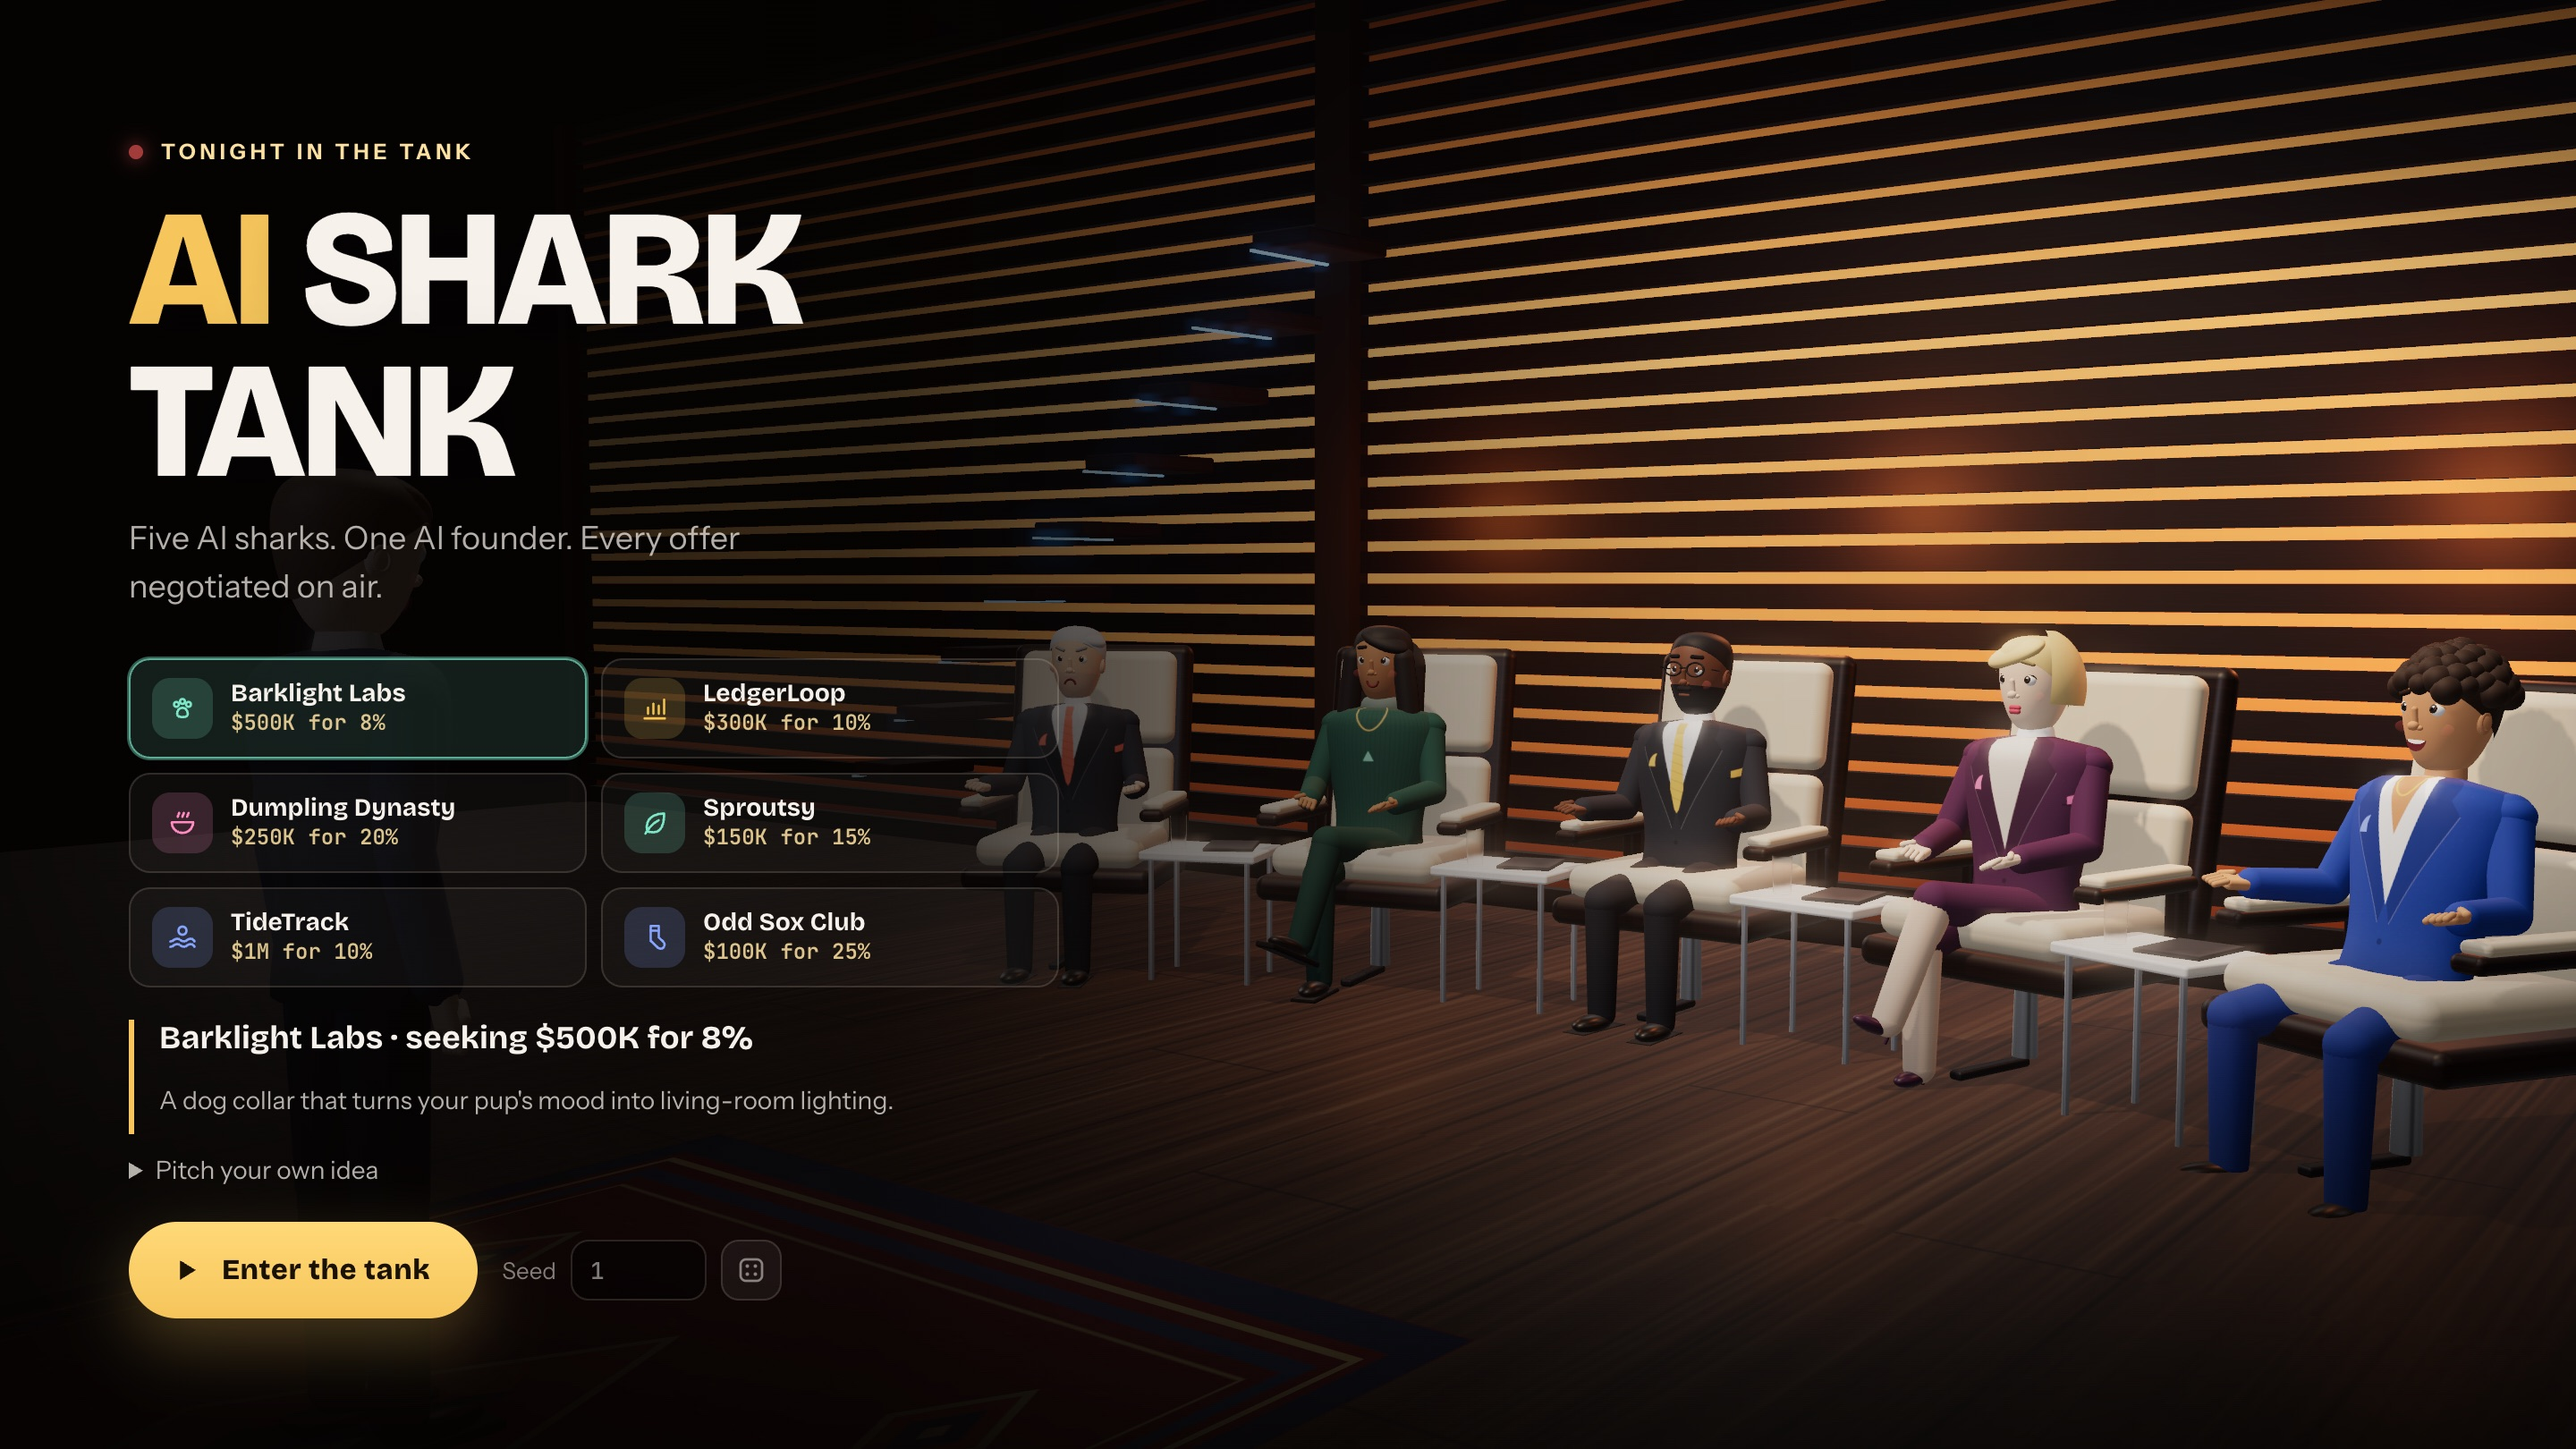
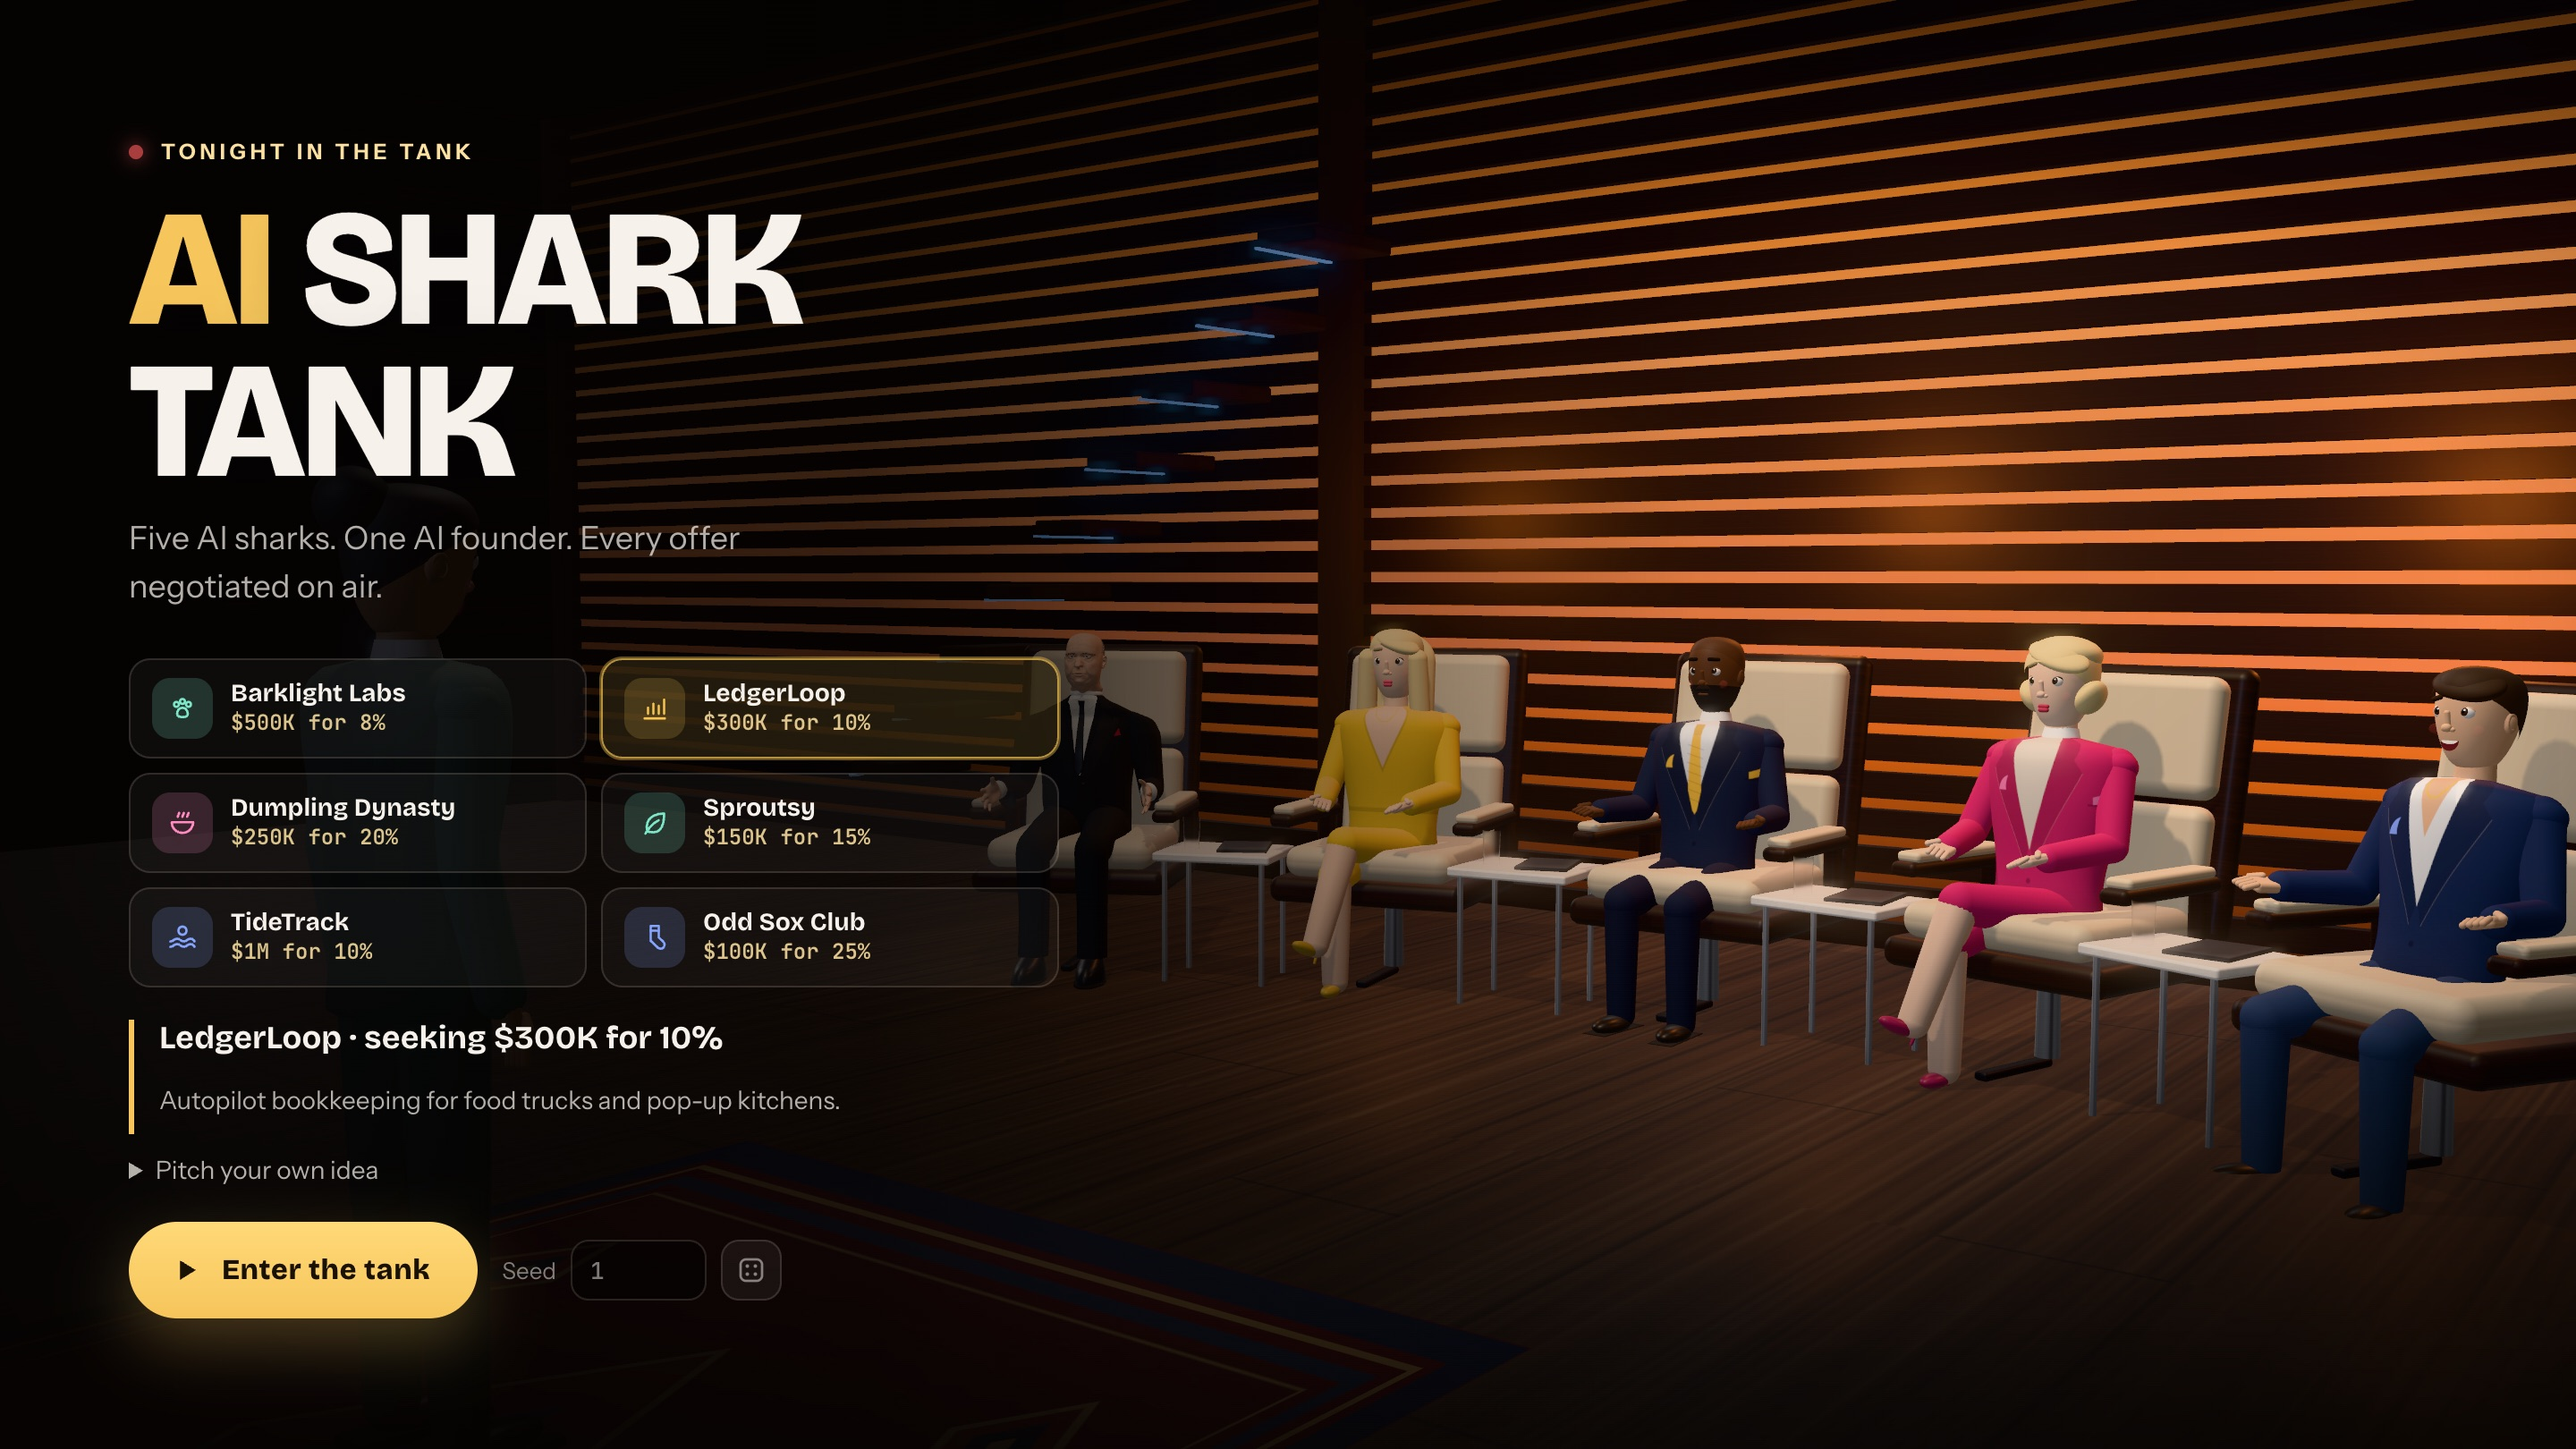
Seat Bernard's rigged Kevin in the Skeptic's chair
Rex now uses public/models/kevin/kevin-rigged.glb. skin.js drives its 18
bones from the same procedural joint rig as the rest of the cast, with a
rest-pose correction per limb, so Kevin sits, gestures, crosses his arms
when he's out, follows whoever is talking, and stands for the handshake.
His mouthOpen/blink/smile/frown morphs handle talking, blinking, and
expressions tied to his deal status. Skin is matched to the studio tone.

Light mode (software WebGL) keeps the procedural stand-in, since the
model is ~400k triangles. A dedicated e2e test forces full quality and
checks the model loads; the e2e per-test timeout is raised for slow
software rendering. README documents the cast mapping.

diff --git a/public/js/studio/skin.js b/public/js/studio/skin.js
@@ -63,7 +63,40 @@ export function hasRig(model) {
   return Boolean(findBone(model, "pelvis") && findBone(model, "head") && findBone(model, "upperarm.L"));
 }
 
-export function createRetarget(model, { root, joints }) {
+// Scale skin to the studio's tone, keeping the model's painted variation.
+function matchSkinTone(model, tone) {
+  const target = new THREE.Color(tone);
+
+  model.traverse((node) => {
+    // Skin meshes are named "...Skin_|_<tone>" (hands) or "..._anatomical_head" (face);
+    // every skinned part is prefixed "Kevin_skin_", so match case-sensitively.
+    if (!node.isMesh || !/Skin_\|_|anatomical_head/.test(node.name)) {
+      return;
+    }
+
+    const colors = node.geometry.attributes.color;
+
+    if (colors && node.material.vertexColors) {
+      const average = new THREE.Color(0, 0, 0);
+
+      for (let index = 0; index < colors.count; index += 1) {
+        average.r += colors.getX(index) / colors.count;
+        average.g += colors.getY(index) / colors.count;
+        average.b += colors.getZ(index) / colors.count;
+      }
+
+      node.material.color.setRGB(target.r / average.r, target.g / average.g, target.b / average.b);
+    } else {
+      node.material.color.copy(target);
+    }
+  });
+}
+
+export function createRetarget(model, { root, joints, skinTone = null }) {
+  if (skinTone) {
+    matchSkinTone(model, skinTone);
+  }
+
   const rootInverse = new THREE.Quaternion();
   const scratch = new THREE.Quaternion();
   const bones = [];
@@ -159,7 +192,7 @@ export function createRetarget(model, { root, joints }) {
         desired.set(entry.bone, world);
         const parent = entry.bone.parent;
         const parentWorld = desired.get(parent) || rootInverse.clone().multiply(parent.getWorldQuaternion(new THREE.Quaternion()));
-        entry.bone.quaternion.copy(parentWorld.invert().multiply(world));
+        entry.bone.quaternion.copy(parentWorld.clone().invert().multiply(world));
       }
 
       if (pelvis) {

diff --git a/public/js/studio/character.js b/public/js/studio/character.js
@@ -794,7 +794,7 @@ export function createCharacter({ look: rawLook, color = "#39e0c8", seed = 1, po
       const saved = Object.entries({ pelvis, head, ...joints }).map(([name, node]) => [node, node.rotation.clone()]);
       saved.forEach(([node]) => node.rotation.set(0, 0, 0));
       root.add(model);
-      skin = createRetarget(model, { root, joints: { pelvis, head, ...joints } });
+      skin = createRetarget(model, { root, joints: { pelvis, head, ...joints }, skinTone: look.skin });
       saved.forEach(([node, rotation]) => node.rotation.copy(rotation));
       procedural.forEach((mesh) => {
         mesh.visible = false;

diff --git a/public/js/studio/studio.js b/public/js/studio/studio.js
@@ -434,7 +434,8 @@ export function createStudio({ mount }) {
         scene.add(character.root);
         sharks.set(shark.id, character);
 
-        if (shark.look?.model) {
+        // Rigged models are heavy (hundreds of thousands of triangles); light mode keeps the procedural look.
+        if (shark.look?.model && quality === "high") {
           void loadRiggedModel(shark.look.model).then((model) => {
             if (model && sharks.get(shark.id) === character) {
               character.attachSkin(cloneSkinned(model));

diff --git a/playwright.config.js b/playwright.config.js
@@ -9,7 +9,8 @@ const baseURL = `http://127.0.0.1:${PORT}`;
 
 export default defineConfig({
   testDir: "./tests/e2e",
-  timeout: 60_000,
+  // Software WebGL is slow; full episodes plus the rigged-model test need headroom.
+  timeout: 120_000,
   expect: {
     timeout: 15_000,
   },

diff --git a/README.md b/README.md
@@ -1,7 +1,7 @@
 # AI Shark Tank
 
 <p align="center">
-  <img src="static/image.jpg" alt="AI Shark Tank: Wild Wes stands up to shake on a deal with the founder of Barklight Labs" width="900" />
+  <img src="static/image.jpg" alt="AI Shark Tank: Rex, the Skeptic, played by the rigged Kevin model, grills the founder from his lounge chair" width="900" />
 </p>
 
 `AI Shark Tank` is a Shark Tank episode you watch in the browser, filmed like the TV show: a 3D studio with the five AI sharks in their lounge chairs, an AI founder who walks in down the hallway, and every question, offer, counter, and handshake cut together from show-style camera angles. There's no dashboard. It plays full screen with TV graphics, made for screenshots, short videos, and social-ready demos.
@@ -21,24 +21,27 @@ npm start
 
 Open [http://127.0.0.1:5050](http://127.0.0.1:5050). No `.env` is needed.
 
-### Kevin character study
+### The cast
 
-Open [http://127.0.0.1:5050/kevin.html](http://127.0.0.1:5050/kevin.html)
-to review the Blender-authored Kevin O’Leary asset. The viewer includes portrait
-and full-figure framing, front/three-quarter/profile angles, orbit, zoom, and
-optional automatic rotation. It is an isolated asset study: **the five fictional
-episode characters, their animation system, and episode logic are unchanged.**
+The sharks' looks nod to the real panel, but their on-air names stay fictional because every line they say is generated:
 
-The runtime asset lives at `public/models/kevin/kevin.glb`; the editable Blender
-source lives at `assets/kevin/kevin.blend`. This is a likeness-development pass,
-not a claim of a scan-quality digital double or an animation-ready replacement
-for the studio character rig.
+| Seat | Persona | Look |
+| --- | --- | --- |
+| Rex | The Skeptic | The rigged Blender model of Kevin O'Leary: bald, gray temples, black suit, crimson pocket square |
+| Luna | The Visionary | Long straight blonde hair, yellow dress |
+| Max | The Numbers Shark | Shaved head, trimmed beard, navy suit, gold tie |
+| Vera | The Brand Guru | Short full blonde hair, hot-pink blazer, pearls |
+| Wild Wes | The Wildcard | Short dark hair, navy blazer, open collar, jeans |
+
+Rex uses `public/models/kevin/kevin-rigged.glb` (18 bones plus `mouthOpen`, `blink`, `smile`, and `frown` morphs; see `assets/kevin/RIGGING.md`). `public/js/studio/skin.js` drives it from the same procedural joint rig as the rest of the cast, so he sits, gestures, crosses his arms when he's out, turns to whoever is talking, talks, blinks, and stands for the handshake. In light mode (software WebGL), Rex uses a procedural stand-in. The other four are procedural.
+
+To review the Kevin asset on its own, open [http://127.0.0.1:5050/kevin.html](http://127.0.0.1:5050/kevin.html) (portrait and full-figure framing, three angles, orbit, zoom). The editable Blender sources are `assets/kevin/kevin.blend` and `assets/kevin/kevin-rigged.blend`.
 
 ## How it works
 
 <p align="center">
   <img src="static/lobby.jpg" alt="The title screen: pick tonight's founder over a live shot of the shark panel" width="440" />
-  <img src="static/pitch.jpg" alt="Over the sharks' shoulders: the founder on the rug with the product display, in front of the entrance hallway" width="440" />
+  <img src="static/pitch.jpg" alt="The handshake: Max stands to shake on a deal with the founder of LedgerLoop" width="440" />
 </p>
 
 1. **Pick a founder.** Six hand-written pitches (pet hardware, food-truck SaaS, frozen dumplings, a sassy plant sensor, ocean-plastic buoys, a mismatched-sock club), or type your own idea and the engine builds a company around it.
@@ -129,6 +132,7 @@ public/js/director.js          Clock-driven playback engine (pure, unit-tested)
 public/js/studio/studio.js     3D renderer, blocking, and the camera director (shots and cuts)
 public/js/studio/set.js        The set: slat wall, stairs, lounge chairs, side tables, rug, hallway, lights
 public/js/studio/character.js  Rigged procedural 3D people (poses, walking, gestures, gaze, blinking, talking)
+public/js/studio/skin.js       Drives rigged GLB characters (Kevin) from the procedural joint rig
 public/js/studio/textures.js   Painted textures: outfits, rug, product board, sign, wood, marble
 public/js/voice.js             Optional browser speech synthesis
 tests/node/                    Engine, reducer, director, and HTTP API tests
